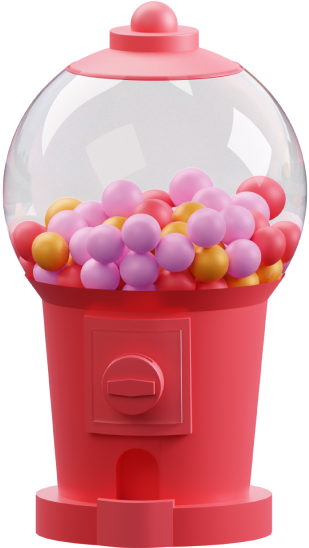
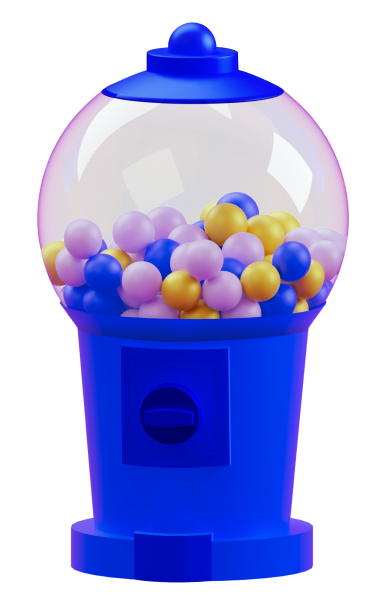
style: replace assets

diff --git a/dapp/src/app/components/header/Header.tsx b/dapp/src/app/components/header/Header.tsx
@@ -90,7 +90,7 @@ export const Header = ({
   return (
     <header className={`${className}`}>
       <div className={`${styles.header} `}>
-        <Image src="/assets/logo.png" height={75} width={275} alt="logo" />
+        <Image src="/assets/logo.png" height={42} width={139} alt="logo" />
         <div className={styles["radix-connect-button"]}>
           <radix-connect-button ref={ref} />
           {showConnectHelper ? <ConnectHelper /> : null}

diff --git a/dapp/src/app/components/machines/gumball-machine/GumballMachine.tsx b/dapp/src/app/components/machines/gumball-machine/GumballMachine.tsx
@@ -41,8 +41,8 @@ export const GumballMachine = ({
           <Image
             src="/assets/gumball-machine.png"
             alt="me"
-            width="154"
-            height="274"
+            width="190"
+            height="305"
           />
         }
         accounts={accounts}

diff --git a/dapp/src/app/components/machines/candybag-machine/CandyBagMachine.tsx b/dapp/src/app/components/machines/candybag-machine/CandyBagMachine.tsx
@@ -46,8 +46,8 @@ export const CandyBagMachine = ({
           <Image
             src="/assets/candy-machine.png"
             alt="me"
-            width="185"
-            height="274"
+            width="176"
+            height="282"
           />
         }
         accounts={accounts}
